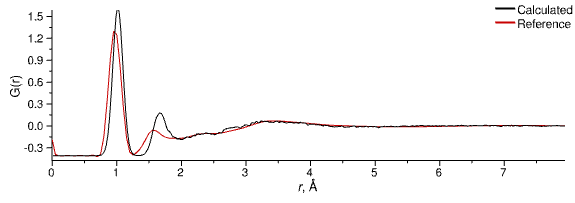
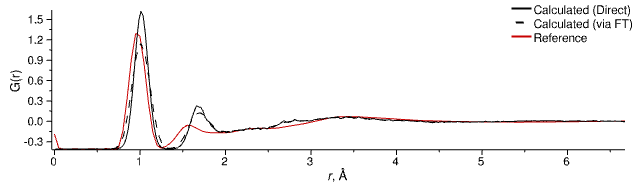
Update water example files.

diff --git a/docs/examples/water/step7.md b/docs/examples/water/step7.md
@@ -9,9 +9,9 @@ grand_parent: Examples
 
 Let's briefly recap what we've done so far:
 
-1. We've set up a liquid water system based on a literature forcefield (`SPC/Fw`)
-2. We've equilibrated the system and made an initial structural comparison with experimental data
-2. We adjusted the intramolecular geometry of the water molecule in order to better match the experimental data
+1. Set up a liquid water system based on a literature forcefield (`SPC/Fw`)
+2. Equilibrated the system and made an initial structural comparison with experimental data
+2. Adjusted the intramolecular geometry of the water molecule in order to better match the experimental data
 
 Our agreement with experiment is OK, but it is possible to make it even better by modifying the _inter_-atomic interaction parameters contained in the atom types. However, generally this is not to be attempted by hand in all but the simplest of cases, as the effects of adjusting the interatomic are seldom as obvious as those for _intra_-molecular parameters. Also, for even a modestly-complicated system the number of adjustable parameters is simply too large to tackle with manual fitting.
 
@@ -25,33 +25,36 @@ Our new layer contains only the [`EPSR`](/userguide/modules/epsr) module, and wh
 > **Refine (EPSR)** tab
 {: .action .action_tabs}
 > Open the **Calculation** settings group
-{: .action .action_settings}
-> An initial value for **EReq** has been set - this determines the magnitude or "strength" of the generated interatomic potential
+{: .action .action_groups}
+> An initial value for **EReq** has been set (3.0) - this determines the magnitude or "strength" of the generated interatomic potential
 {: .step}
-> The **Feedback** factor is 0.9 - this states that we are 90% confident in the experimental data, and that the calculated partial structure factors should make up 10% of the estimated partials.
+> The **Feedback** factor is 0.8 - this states that we are 80% confident in the experimental data, and that the calculated partial structure factors should make up 20% of the estimated partials.
 {: .step}
 > The range of data over which to generate the potential in _Q_-space is determined by **QMax** (30 &#8491;<sup>-1</sup>)and **QMin** (0.5 &#8491;<sup>-1</sup>)
 {: .step}
-> The experimental data to use in the refinement are set in the **Target** option, which lists all available modules by name that have suitable data for the [`EPSR`](/userguide/modules/epsr) module to use.
+> The experimental data to use in the refinement are set in the **Target** option, which lists all available modules by name that have suitable data for the [`EPSR`](/userguide/modules/epsr) module to use. All of the [`NeutronSQ`](/userguide/modules/neutronsq) modules have been selected automatically.
 {: .step}
 
-All of these default values are fine for our purpose, but before we start the refinement proper its worth going through the various quantities displayed in the  [`EPSR`](/userguide/modules/epsr) tab. We'll turn off application of the empirical potential for now, and start the simulation again to get some initial data in these graphs.
+All of these default values are fine for our purpose, but before we start the refinement proper its worth going through the various quantities displayed in the  [`EPSR`](/userguide/modules/epsr) tab. We'll turn off refinement of the empirical potential for now, and start the simulation again to get some initial data in these graphs.
 
 > **Refine (EPSR)** tab
 {: .action .action_tabs}
 > Open the **Calculation** settings group
-{: .action .action_settings}
+{: .action .action_groups}
 > Uncheck the **ModifyPotential** option
 {: .step}
 > Start the simulation running
 {: .step}
+> Double-click on the [`EPSR`](/userguide/modules/epsr) to open it up in a new tab
+{: .step}
 
-Let's go through the different tabs of the [`EPSR`](/userguide/modules/epsr) module one by one.
+Now let's go through the different plots in the [`EPSR`](/userguide/modules/epsr) module one by one.
 
 ### 1. F(Q)
 
 A broad overview of the agreement between 
 
-so you can set Dissolve running start to refine the potential
+![](epsrmodule-fq.png){: .img-centre}
+*Equilibrated water (D2O) G(r) with effective broadening applied to intramolecular g(r)*
 
 [Previous Step](step6.md){: .btn }   [Next Step](step8.md){: .btn .right}

diff --git a/docs/examples/water/step6.md b/docs/examples/water/step6.md
@@ -1,25 +1,31 @@
 ---
-title: Step 6 - Adjust Intramolecular Geometry
+title: Step 6 - Fix the Water Molecule Geometry
 parent: Liquid Water
 grand_parent: Examples
 ---
 # Liquid Water
 
-## 6. Adjust Intramolecular Geometry
+## 6. Fix the Water Molecule Geometry
 
-There is a hint in the structure factors, and particularly the G(r), that the intramolecular geometry of our off-the-shelf forcefield for water is not quite consistent with the real world.  This is made clearly obvious if you look at the G(r) for the D<sub>2</sub>O sample:
+There is a hint in the structure factors for the H<sub>2</sub>O sample (particularly the G(r)), that the intramolecular geometry of our off-the-shelf forcefield is not quite consistent with the real world.  This is made clearly obvious if you look at the G(r) for the D<sub>2</sub>O sample:
 
-![Equilibrated water (D2O) G(r) with effective broadening applied to intramolecular g(r)](equilibrated-d2o-broadened-gr.png){: .img-centre}
+> **RDF / Neutron S(Q)** tab
+{: .action .action_tabs}
+> Double-click on the `D2O` [`NeutronSQ`](/userguide/modules/neutronsq) module to open its additional controls in a separate tab
+{: .step}
+
+![](equilibrated-d2o-broadened-gr.png){: .img-centre}
+*Equilibrated water (D2O) G(r) with effective broadening applied to intramolecular g(r)*
 
 > You may notice a small 'upturn' in the calculated F(Q) for the D<sub>2</sub>O sample that does not match experiment. This is caused by subtle density fluctuations in the configuration that are accentuated by the deuteration of the water, and will disappear slowly over time. You can safely proceed with the example.
-> {: .warn}
+{: .warn}
 
 Clearly we have a mismatch between the peak positions at around 1 &#8491; (related to the O-H bond) and 1.7 &#8491; (related to the H-O-H angle). It is usually necessary to adjust the geometry of your species a little in order to be consistent with the experimentally-measured data, and in the present case we are lucky that we only have two parameters to adjust!
 
 > Here we are modifying the intramolecular terms based on comparison of the D<sub>2</sub>O data, but bear in mind that liquid water is amongst the systems most sensitive to isotopic substitution since all hydrogens are hydroxyl hydrogens, and subject to exchange as well as strong hydrogen bonding. As such, the differences in intramolecular geometry between H<sub>2</sub>O and D<sub>2</sub>O are measurable.<sup>[1]</sup>
 {: .warn}
 
-Since we set up our simulation to use intramolecular master terms (via the _Add Forcefield Terms..._{: .text-green-100} wizard) we can modify those to directly affect our species.
+Since we set up our simulation to use intramolecular master terms (via the _Add Forcefield Terms..._{: .text-green-100} wizard) we can modify those to directly affect our water molecule's geometry.
 
 > **Forcefield** tab, **Master Terms** section
 {: .action .action_tabs}
@@ -29,6 +35,9 @@ Since we set up our simulation to use intramolecular master terms (via the _Add 
 {: .step}
 
 Now run the simulation for a little longer and let the species adjust to their new geometry, and you should see a marked improvement in the comparison of the D<sub>2</sub>O total G(r) and structure factor.
+
+![](equilibrated-d2o-broadened-adjusted-gr.png){: .img-centre}
+*Equilibrated water (D2O) G(r) with effective broadening and adjusted intramolecular geometry*
 
 > The change in the G(r) will not be instant as the majority of the evolution of the system is from the [`MolShake`](/userguide/modules/molshake) which does not change the intramolecular geometry. Only the [`MD`](/userguide/modules/md) module will affect the intramolecular geometry. Also, the g(r) calculated by the [`RDF`](/userguide/modules/rdf) are averaged over five calculations by default.
 {: .tip}

diff --git a/docs/examples/water/step5.md b/docs/examples/water/step5.md
@@ -50,6 +50,6 @@ Start the simulation up again and you should see quite quickly that this broaden
 ![](equilibrated-h2o-broadened-fq.png){: .img-centre}
 *Equilibrated water (H2O) F(Q) with effective broadening applied to intramolecular g(r)*
 
-It's
+It's important to understand the difference between the two flavours of "calculated" G(r). The first (`Calculated (Direct)`, solid black line) is the G(r) calculated directly from the configuration, and with broadening applied, and represents the raw "simulated" G(r). The second (`Calculated (via FT)`, dashed black line) is derived from Fourier transform of the calculate total F(Q) (i.e. it is the Fourier transform of the Fourier transform of the G(r)). The reason for displaying the latter is to enable a more true comparison between experimental and calculate G(r) - the reference data is Fourier transformed from _Q_- to _r_-space usually with a Window function such as the Lorch function, and so for consistency we also do the same transform on the calculate S(Q). Note that the effects are mostly isolated to the first peak in the G(r), which has a lower intensity in the Fourier transformed version.
 
 [Previous Step](step4.md){: .btn }   [Next Step](step6.md){: .btn .right}
